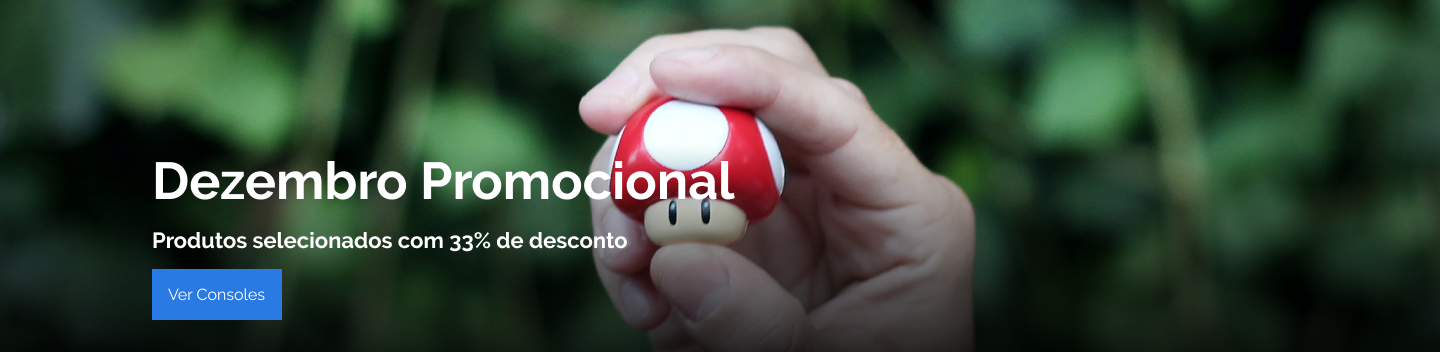
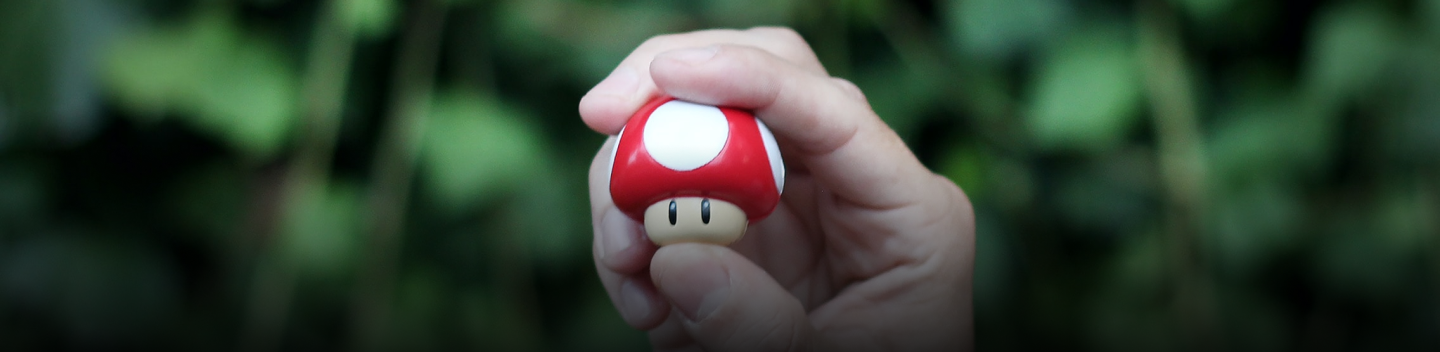
start hero

Changed region(s): [[0.0938, 0.4375, 0.5312, 0.5625], [0.0938, 0.6562, 0.4375, 0.7188], [0.0938, 0.75, 0.2188, 0.9062]]

diff --git a/index.html b/index.html
@@ -11,6 +11,7 @@
     <link rel="stylesheet" href="./css/reset.css">
     <link rel="stylesheet" href="./css/base.css">
     <link rel="stylesheet" href="./css/header.css">
+    <link rel="stylesheet" href="./css/home_main.css">
     <title>Alura Geek</title>
 </head>
 
@@ -22,7 +23,12 @@
         <button class="header__buttonLogin">Login</button>
     </header>
     <main>
-
+        <section class="hero">
+            <h1 class="hero__title">Dezembro Promocional</h1>
+            <h2 class="hero__subtitle">Produtos selecionados com 33% de desconto</h2>
+            <a class="hero__button" href="#">Ver Consoles</a>
+        </section>
+        
     </main>
     <footer>
 

diff --git a/css/home_main.css b/css/home_main.css
@@ -1,0 +1,17 @@
+.hero {
+  background: linear-gradient(to top, rgba(0, 0, 0, 0.41), rgba(0, 0, 0, 1))
+    url(../assets/img/hero.png) no-repeat center;
+  background-size: cover;
+  height: 192px;
+  color: white;
+}
+
+.hero__title {
+  font-weight: 700;
+  font-size: 1.375rem;
+  padding: 78px 0 16px 16px;
+}
+
+.hero__subtitle {
+  padding: 8px 16px;
+}
